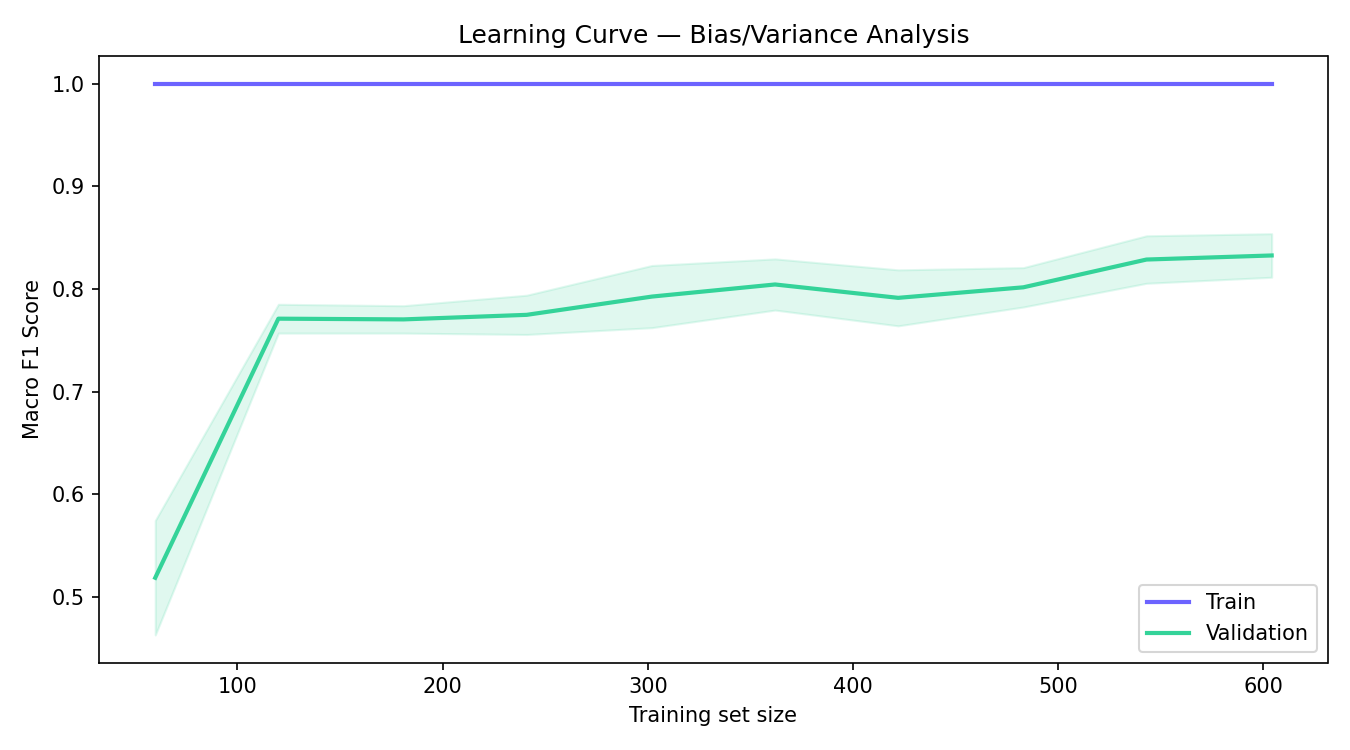
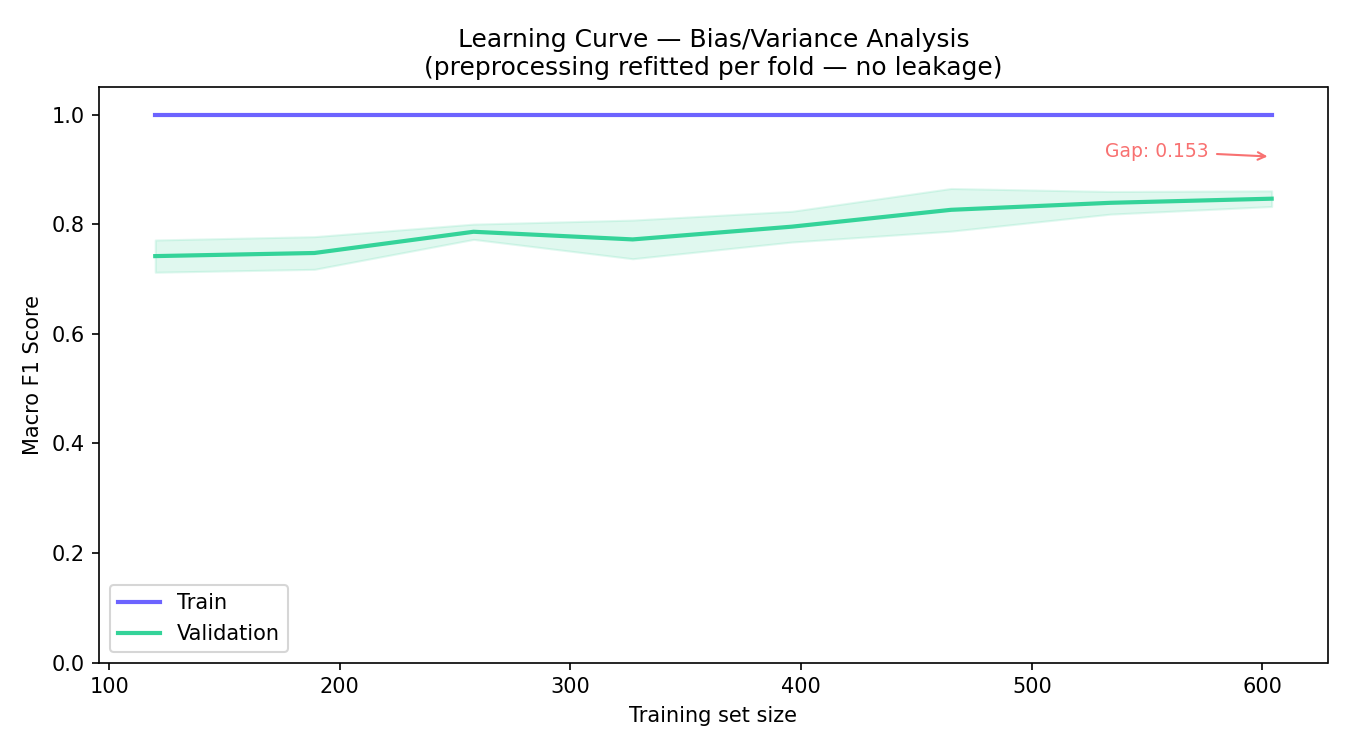
Learning curve problem solved

diff --git a/src/learning_curve.py b/src/learning_curve.py
@@ -3,35 +3,47 @@ import pandas as pd
 import numpy as np
 import matplotlib.pyplot as plt
 from sklearn.model_selection import learning_curve, StratifiedKFold
+from sklearn.pipeline import Pipeline
+from sklearn.preprocessing import StandardScaler
+from sklearn.feature_selection import SelectFromModel
+from sklearn.ensemble import RandomForestClassifier
+from imblearn.over_sampling import SMOTE
+from imblearn.pipeline import Pipeline as ImbPipeline
 
-print("Loading model and preprocessing artifacts...")
+print("Loading model and dataset...")
 
-model    = joblib.load("models/model.pkl")
-scaler   = joblib.load("models/scaler.pkl")
-selector = joblib.load("models/selector.pkl")
-
-print("Loading dataset...")
+model = joblib.load("models/model.pkl")
 
 df = pd.read_csv("data/pd_speech_features.csv", header=1)
 X  = df.drop(["id", "class"], axis=1)
 y  = df["class"]
 
-# Apply the same preprocessing as train.py: select → scale
-X_selected = selector.transform(X)
-X_scaled   = scaler.transform(X_selected)
+# ---------------------------------------------------------------
+# Wrap the full pipeline so learning_curve refits preprocessing
+# on each CV fold — avoids leakage from pre-fitted selector/scaler
+# ---------------------------------------------------------------
+pipeline = ImbPipeline([
+    ("smote",    SMOTE(random_state=42)),
+    ("selector", SelectFromModel(
+                     RandomForestClassifier(n_estimators=100, random_state=42),
+                     max_features=100
+                 )),
+    ("scaler",   StandardScaler()),
+    ("model",    model),
+])
 
-print("Computing learning curve (5-fold CV)...")
+print("Computing learning curve (5-fold stratified CV)...")
 
 cv = StratifiedKFold(n_splits=5, shuffle=True, random_state=42)
 
 train_sizes, train_scores, test_scores = learning_curve(
-    model,
-    X_scaled,
+    pipeline,
+    X,
     y,
     cv=cv,
     scoring="f1_macro",
-    train_sizes=np.linspace(0.1, 1.0, 10),
-    n_jobs=-1
+    train_sizes=np.linspace(0.2, 1.0, 8),
+    n_jobs=-1,
 )
 
 train_mean = train_scores.mean(axis=1)
@@ -39,19 +51,47 @@ train_std  = train_scores.std(axis=1)
 test_mean  = test_scores.mean(axis=1)
 test_std   = test_scores.std(axis=1)
 
-plt.figure(figsize=(9, 5))
-plt.plot(train_sizes, train_mean, label="Train",      color="#6c63ff", linewidth=2)
-plt.plot(train_sizes, test_mean,  label="Validation", color="#34d399", linewidth=2)
-plt.fill_between(train_sizes, train_mean - train_std, train_mean + train_std, alpha=0.15, color="#6c63ff")
-plt.fill_between(train_sizes, test_mean  - test_std,  test_mean  + test_std,  alpha=0.15, color="#34d399")
+# ---------------------------------------------------------------
+# Plot
+# ---------------------------------------------------------------
+fig, ax = plt.subplots(figsize=(9, 5))
 
-plt.xlabel("Training set size")
-plt.ylabel("Macro F1 Score")
-plt.title("Learning Curve — Bias/Variance Analysis")
-plt.legend()
-plt.tight_layout()
+ax.plot(train_sizes, train_mean, label="Train",      color="#6c63ff", linewidth=2)
+ax.plot(train_sizes, test_mean,  label="Validation", color="#34d399", linewidth=2)
+ax.fill_between(train_sizes,
+                train_mean - train_std, train_mean + train_std,
+                alpha=0.15, color="#6c63ff")
+ax.fill_between(train_sizes,
+                test_mean - test_std,  test_mean + test_std,
+                alpha=0.15, color="#34d399")
+
+# Annotate the gap at the largest training size
+gap = train_mean[-1] - test_mean[-1]
+ax.annotate(
+    f"Gap: {gap:.3f}",
+    xy=(train_sizes[-1], (train_mean[-1] + test_mean[-1]) / 2),
+    xytext=(-80, 0), textcoords="offset points",
+    fontsize=9, color="#f87171",
+    arrowprops=dict(arrowstyle="->", color="#f87171"),
+)
+
+ax.set_xlabel("Training set size")
+ax.set_ylabel("Macro F1 Score")
+ax.set_title("Learning Curve — Bias/Variance Analysis\n"
+             "(preprocessing refitted per fold — no leakage)")
+ax.legend()
+ax.set_ylim(0, 1.05)
+fig.tight_layout()
 
 plt.savefig("static/learning_curve.png", dpi=150)
 plt.close()
 
-print("Saved → static/learning_curve.png")
+final_gap = train_mean[-1] - test_mean[-1]
+print(f"Saved → static/learning_curve.png")
+print(f"Train F1: {train_mean[-1]:.4f} | Val F1: {test_mean[-1]:.4f} | Gap: {final_gap:.4f}")
+
+if final_gap > 0.15:
+    print("WARNING: Large train/val gap — model may be overfitting.")
+    print("Consider: more regularization, lower max_depth, or more training data.")
+else:
+    print("Gap is within acceptable range for a tree ensemble.")
